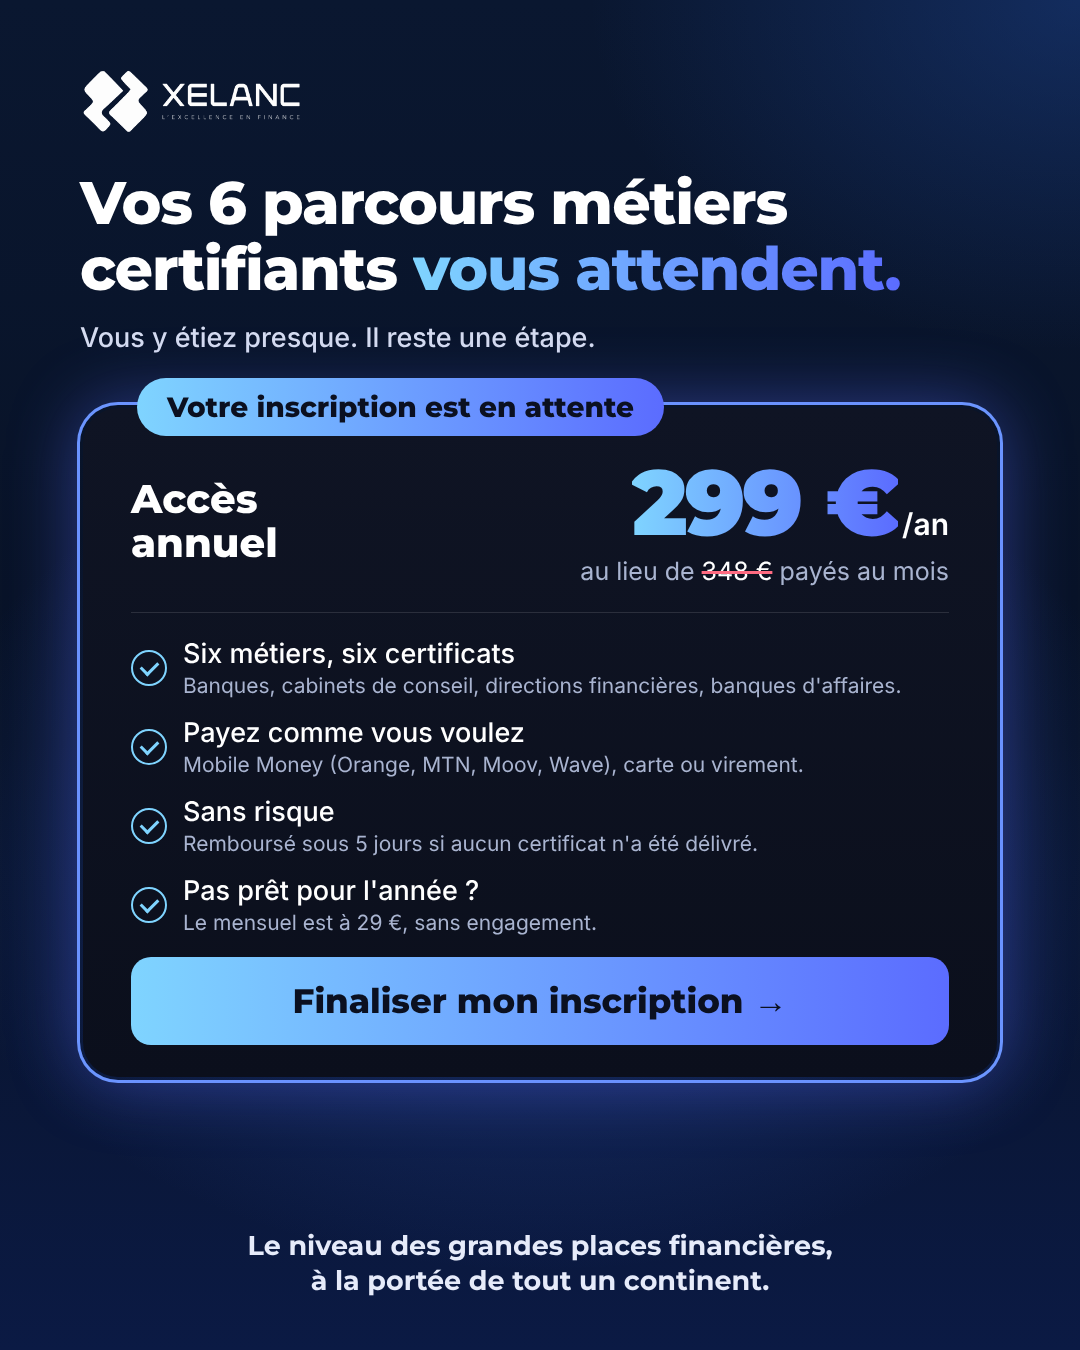
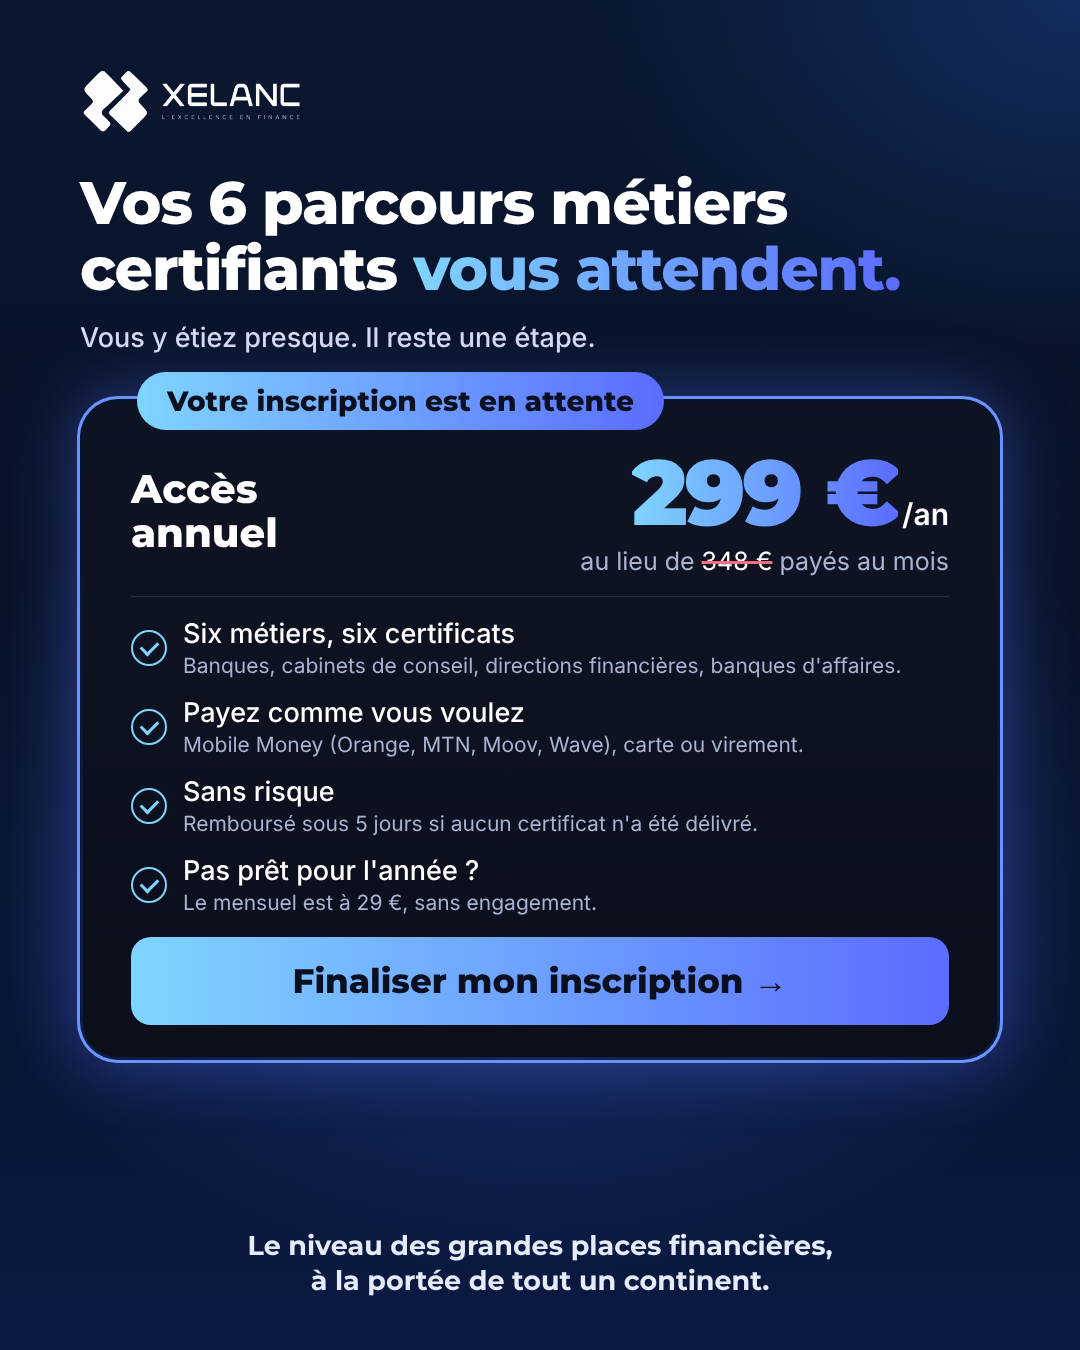
Aère la signature des visuels de retargeting
Claude-Session: https://claude.ai/code/session_01LXovPUf4KLwN8kSMXa7eXm

Changed region(s): [[0.0611, 0.4356, 0.9167, 0.8089], [0.0611, 0.2489, 0.9167, 0.4356], [0.9167, 0.7467, 0.9472, 0.7778]]

diff --git a/excellence/ads/retargeting/src/style.css b/excellence/ads/retargeting/src/style.css
@@ -187,3 +187,7 @@ body.compact { padding-top: 60px; padding-bottom: 52px; }
 .tight .bar .p { font-size: 38px; }
 .tight .bar .p small { font-size: 19px; }
 .tight .cta.inline { font-size: 29px; padding: 24px 30px; }
+.compact .sign { margin-top: 24px; }
+.compact .card { margin-top: 44px; padding-top: 44px; }
+.compact .rule { margin: 20px 0 20px; }
+.compact .monthly { margin-top: 20px; padding: 14px 40px; }
